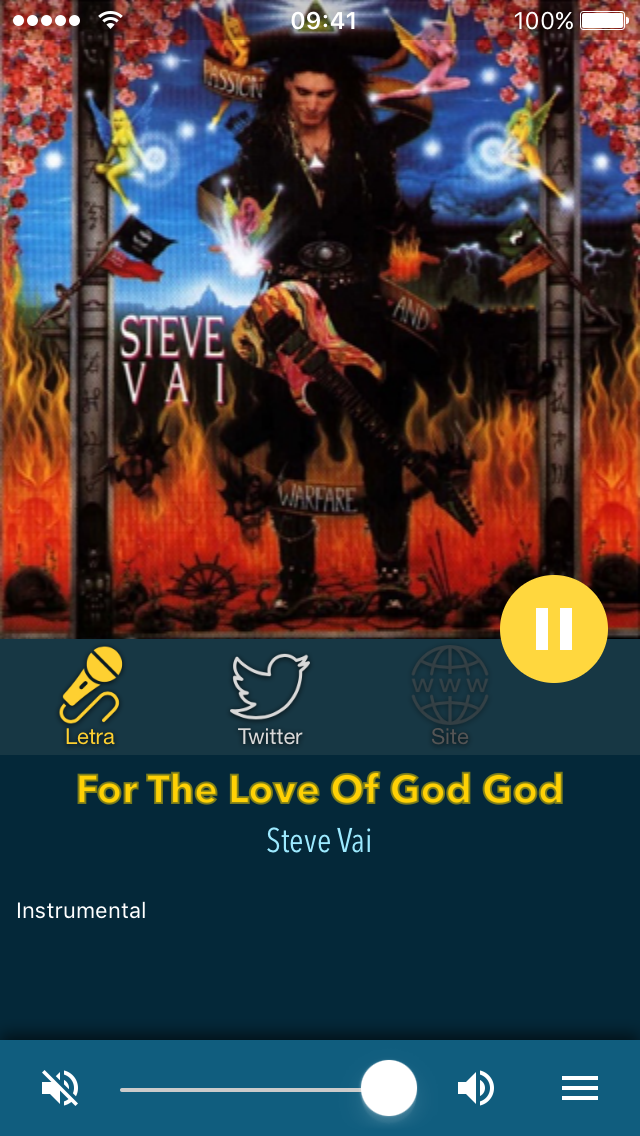
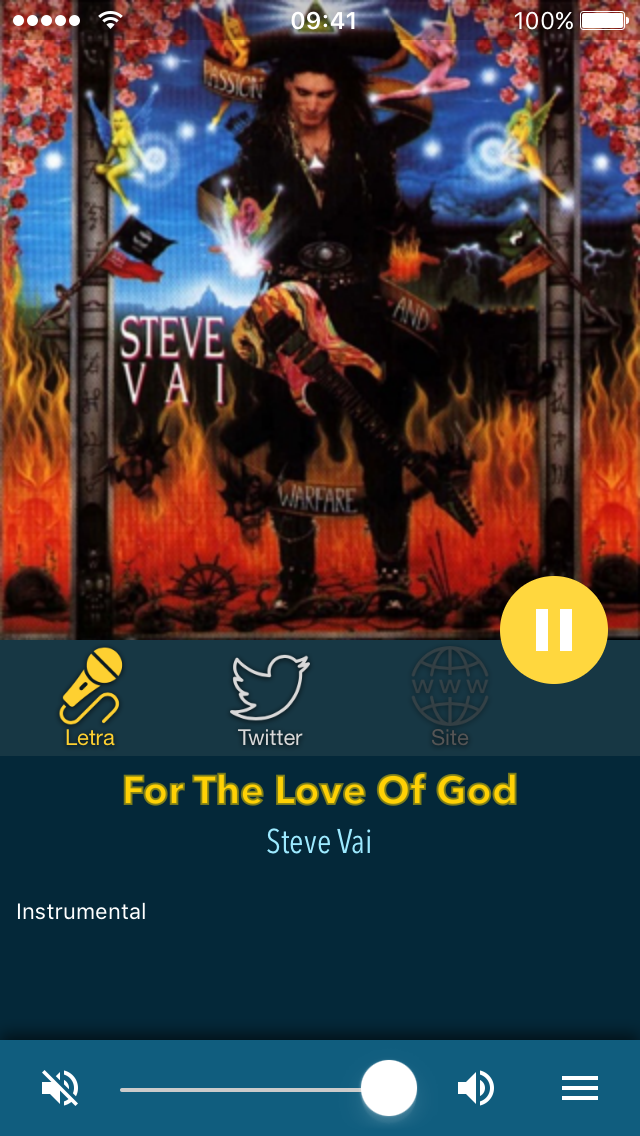
Fix another Mock typo

diff --git a/ArcanosRadioScreenshot/AWRScreenshotAutomation.m b/ArcanosRadioScreenshot/AWRScreenshotAutomation.m
@@ -68,7 +68,7 @@ NS_ASSUME_NONNULL_BEGIN
 }
 
 - (void)steveVaiMetadata {
-    [tester setSongName:@"For The Love Of God God"
+    [tester setSongName:@"For The Love Of God"
              artistName:@"Steve Vai"
                 twitter:@"@stevevai"
                 website:@""
